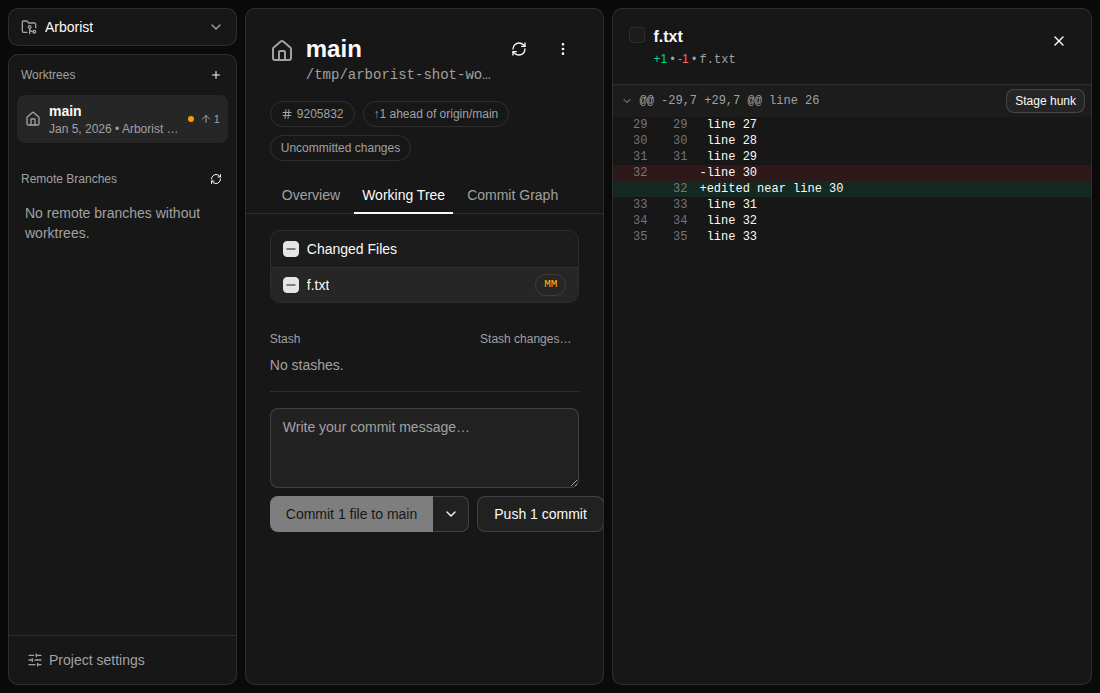
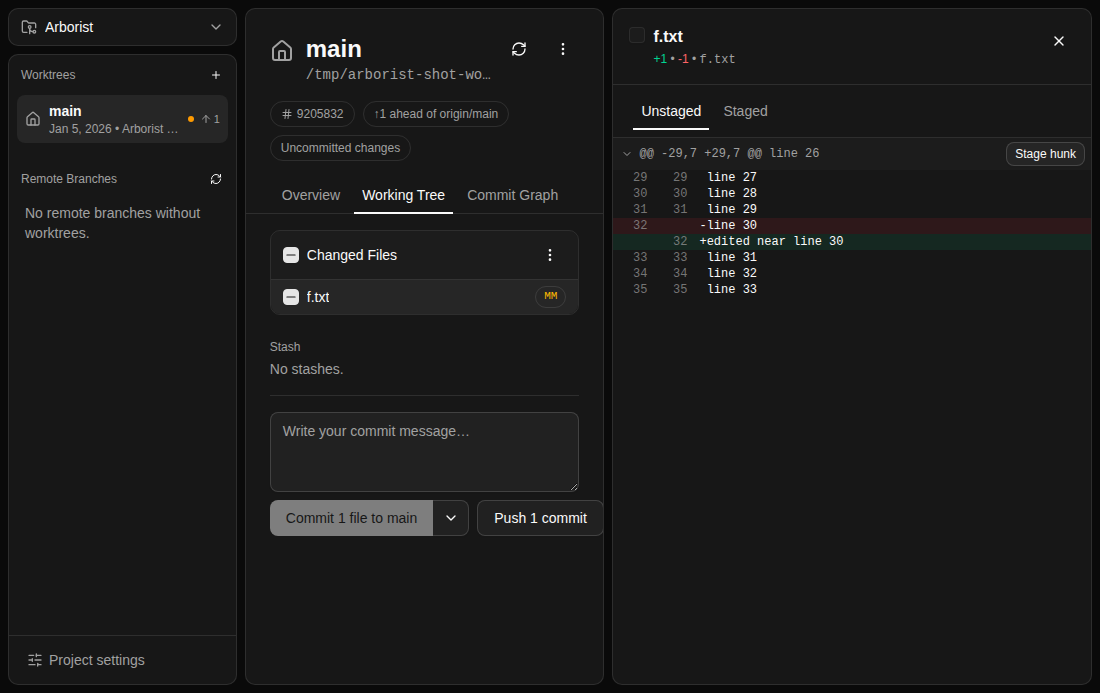
Fix fallout from merging v3 into the phase 9 branch
CommitInspector's DiffPanel (a historical commit's file patch, always
one-sided) needed the hasBothSides prop Phase 6's staged/unstaged tab
fix (f9bb6f3) added — explicitly false, since a commit's own diff
never has a staged/unstaged distinction to toggle.

Regenerated the diff-panel-hunks-{one-staged,switched-to-staged}
screenshots to reflect the merged-in tab UI; reviewed both themes.
Other screenshots the full regen touched were sub-3px antialiasing
jitter and the inherently non-deterministic post-commit hash/timestamp
in working-tree-staging-after-commit, unrelated to this diff — reverted
to baseline.

Claude-Session: https://claude.ai/code/session_01P9H3jnsgNrtaxnqUfaxc3W

diff --git a/scripts/screenshots/scenarios.ts b/scripts/screenshots/scenarios.ts
@@ -1303,7 +1303,7 @@ export const scenarios: Scenario[] = [
     name: 'switch-branch-create',
     description:
       'Creating a new branch from the switch-branch picker (#69 review): ' +
-      'the empty state\'s hint text before anything is typed — this fixture ' +
+      "the empty state's hint text before anything is typed — this fixture " +
       'has no other local branches to pick, so that empty state is what ' +
       'greets the picker — the "Create branch" row that then appears once ' +
       'a typed name matches no existing branch, the Base picker it reveals ' +

diff --git a/src/renderer/src/components/commit-inspector.tsx b/src/renderer/src/components/commit-inspector.tsx
@@ -119,6 +119,7 @@ export function CommitInspector({
           <DiffPanel
             request={request}
             label={splitDisplayPath(selectedFile.path).name}
+            hasBothSides={false}
             onClose={onClose}
           />
         </div>
